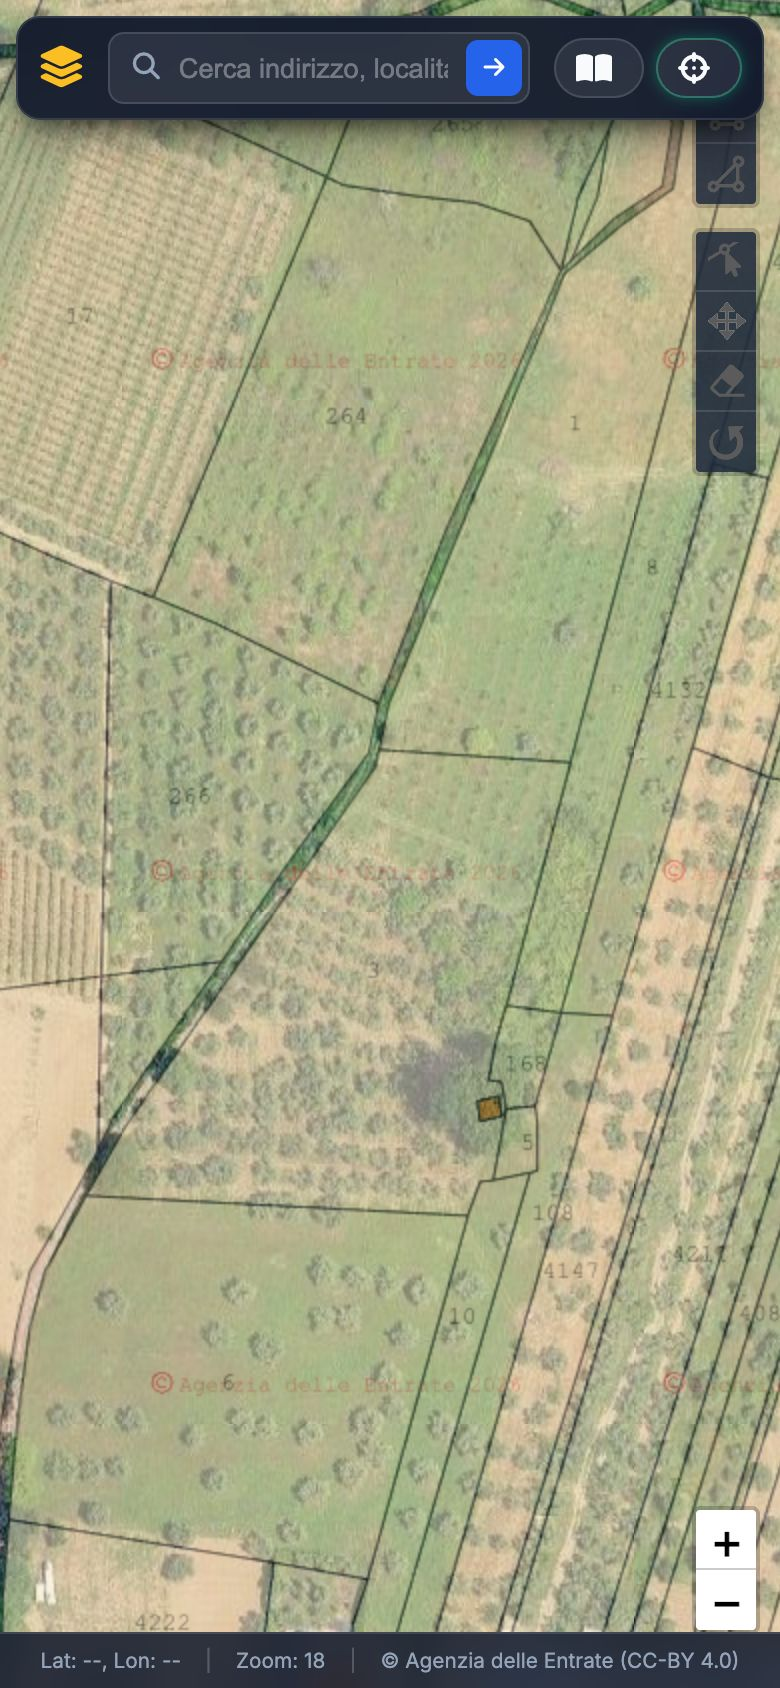
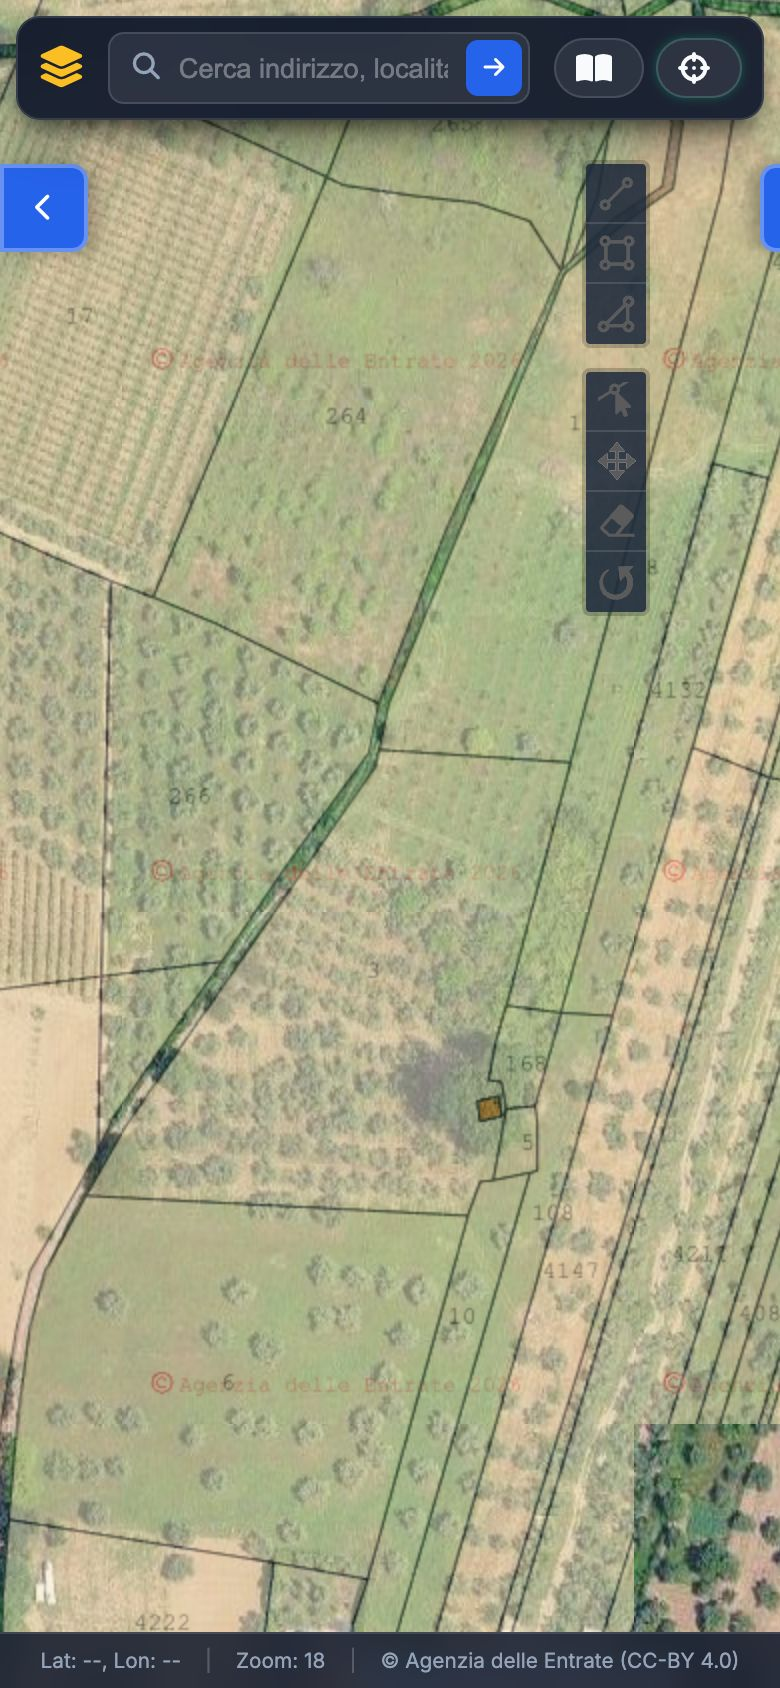
fix: mobile map controls overlapping and invisible panel toggles

diff --git a/public/style.css b/public/style.css
@@ -289,13 +289,11 @@ body, html {
 }
 
 .floating-panel.collapsed {
-  transform: translateX(-110%);
-  opacity: 0;
-  pointer-events: none;
+  transform: translateX(-115%);
 }
 
 .floating-panel.collapsed.right-panel {
-  transform: translateX(110%);
+  transform: translateX(115%);
 }
 
 .left-panel {
@@ -897,6 +895,21 @@ input[type=range] {
   /* Make the floating panels visually separate when open */
   .left-panel:not(.collapsed), .right-panel:not(.collapsed) {
     box-shadow: 0 10px 40px rgba(0,0,0,0.8);
+  }
+  
+  /* Push Leaflet controls down so they don't overlap the top bar */
+  .leaflet-top {
+    top: 70px !important;
+  }
+  
+  /* Make sure Geoman controls don't overlap with the right panel collapse button */
+  .leaflet-right {
+    right: 55px !important;
+  }
+  
+  /* Hide native zoom control on mobile to save space (use pinch-to-zoom) */
+  .leaflet-control-zoom {
+    display: none !important;
   }
 }
 
